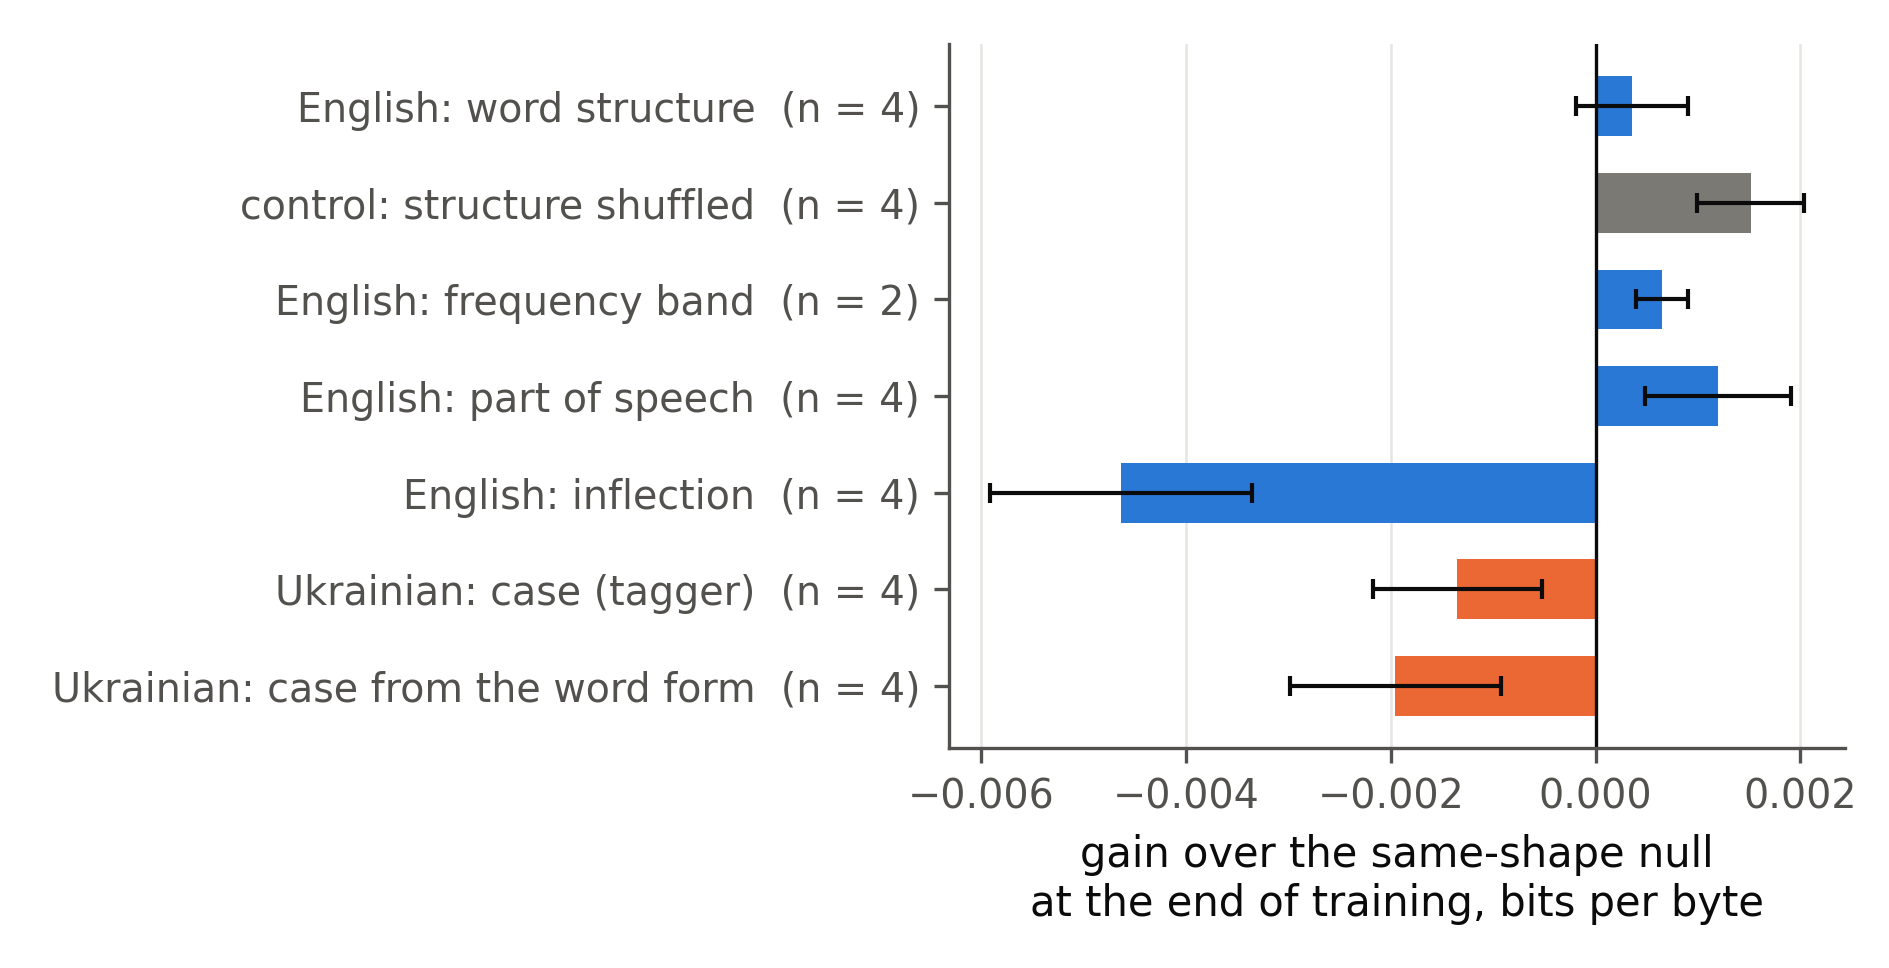
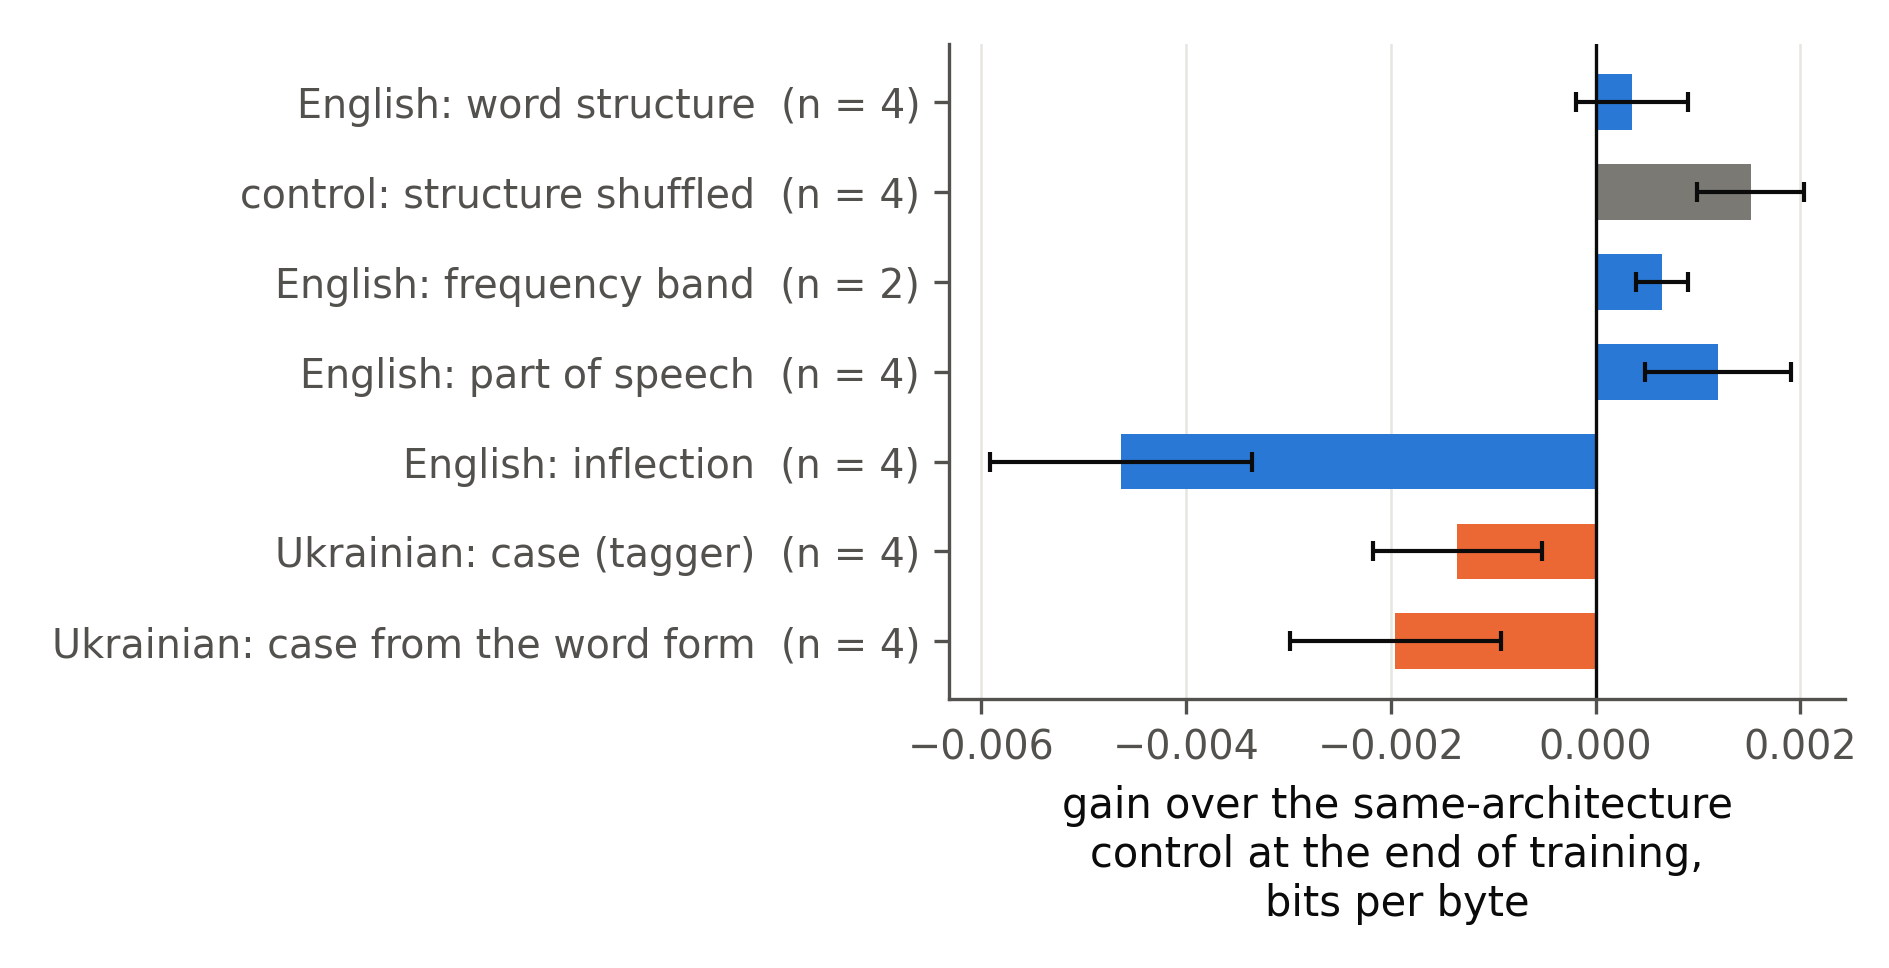
The English figures say "control"; the small model's cost is scoped to endings apart
What changed for the thesis:
- scripts/analysis/thesis_figures.py, the English labels follow the thesis's term: "gain over the
  control", "gain over the same-architecture control at the end of training", "the control's
  validation BPB", "BPE 17k control's validation BPB" (exports/figures/en/, all five figures). The
  English law figure's tokenizer name now breaks over two lines, as the Ukrainian one does, so its
  legend no longer runs off the figure's edge. The Ukrainian figures are unchanged.
- FINDINGS, the same-shape null is not neutral: "the cost belongs to the small model, not to a stage
  of learning" is now said of endings apart, since at 85M parameters the slot costs under BPE 17k
  from the middle of training (§33.139).
- Records: paired_cells_20261025T064838, item 1's nulls at width 1024 on 151M tokens at 20k, paired
  once all eight were in; written up with item 1.

diff --git a/scripts/analysis/thesis_figures.py b/scripts/analysis/thesis_figures.py
@@ -131,11 +131,11 @@ TXT = {
         'unigram': 'Unigram 17k',
     },
     'en': {
-        'gain': 'gain over the null,\nbits per byte',
-        'gain_end': 'gain over the same-shape null\nat the end of training, bits per byte',
+        'gain': 'gain over the control,\nbits per byte',
+        'gain_end': 'gain over the same-architecture\ncontrol at the end of training,\nbits per byte',
         'step': 'training step, thousands',
-        'null_bpb': "the null's validation BPB\n(→ more learned)",
-        'ref_bpb': "BPE 17k null's validation BPB\n(→ more learned)",
+        'null_bpb': "the control's validation BPB\n(→ more learned)",
+        'ref_bpb': "BPE 17k control's validation BPB\n(→ more learned)",
         'lead': 'lead over BPE 17k,\nbits per byte',
         'tok_title': 'BPE 17k with endings apart, n = 4:',
         'letters': 'abcd',
@@ -169,7 +169,7 @@ _EN_LAW_NAMES = [['151M tokens, 50k steps', '38M tokens, 10k steps'],
                  ['50k steps', '20k steps', '10k steps', '5k steps'],
                  ['width 128, 50k steps', 'width 128, 10k steps', 'width 256, 10k steps', 'width 256, 20k steps',
                   'width 64, 10k steps'],
-                 ['BPE 4k', 'BPE 8k', 'BPE 17k', 'BPE 32k', 'Unigram 17k', 'BPE 17k, endings apart']]
+                 ['BPE 4k', 'BPE 8k', 'BPE 17k', 'BPE 32k', 'Unigram 17k', 'BPE 17k with\nendings apart']]
 TXT['en']['law'] = [(ref, [(nm, n, f) for nm, (_, n, f) in zip(names, conds)])
                     for names, (ref, conds) in zip(_EN_LAW_NAMES, TXT['uk']['law'])]
 

diff --git a/exports/audits.md b/exports/audits.md
@@ -257,6 +257,7 @@
 | `paired_cells` | 2026-10-22T13:58:26+00:00 | pair=[['w1024 wu1000', 'bpe_mconst-LEARN-CAUSAL_bpe_uk_17k_ukwiki0.05_wu1000_st10k_w1024', 'bpe_mconst-LEARN-CAUSAL_bpeend_uk_17k_ukwiki0.05_wu1000_st10k_w1024'], ['w512 wu1000', 'bpe_mconst-LEARN-CAUSAL_bpe_uk_17k_ukwiki0.05_wu1000_st10k_w512', 'bpe_mconst-LEARN-CAUSAL_bpeend_uk_17k_ukwiki0.05_wu1000_st10k_w512'], ['w1024 wu100', 'bpe_mconst-LEARN-CAUSAL_bpe_uk_17k_ukwiki0.05_st10k_w1024', 'bpe_mconst-LEARN-CAUSAL_bpeend_uk_17k_ukwiki0.05_st10k_w1024'], ['w512 wu100', 'bpe_mconst-LEARN-CAUSAL_bpe_uk_17k_ukwiki0.05_st10k_w512', 'bpe_mconst-LEARN-CAUSAL_bpeend_uk_17k_ukwiki0.05_st10k_w512'], ['w1024 BPE17k null: wu1000 vs wu100', 'bpe_mconst-LEARN-CAUSAL_bpe_uk_17k_ukwiki0.05_st10k_w1024', 'bpe_mconst-LEARN-CAUSAL_bpe_uk_17k_ukwiki0.05_wu1000_st10k_w1024'], ['w1024 endings null: wu1000 vs wu100', 'bpe_mconst-LEARN-CAUSAL_bpeend_uk_17k_ukwiki0.05_st10k_w1024', 'bpe_mconst-LEARN-CAUSAL_bpeend_uk_17k_ukwiki0.05_wu1000_st10k_w1024'], ['w512 BPE17k null: wu1000 vs wu100', 'bpe_mconst-LEARN-CAUSAL_bpe_uk_17k_ukwiki0.05_st10k_w512', 'bpe_mconst-LEARN-CAUSAL_bpe_uk_17k_ukwiki0.05_wu1000_st10k_w512'], ['w512 endings null: wu1000 vs wu100', 'bpe_mconst-LEARN-CAUSAL_bpeend_uk_17k_ukwiki0.05_st10k_w512', 'bpe_mconst-LEARN-CAUSAL_bpeend_uk_17k_ukwiki0.05_wu1000_st10k_w512']] machine=second results=['/home/neko/PycharmProjects/Morph/results'] | pairs |
 | `paired_cells` | 2026-10-23T00:45:25+00:00 | pair=[['ugender:lead', 'bpe_ugenderlex-LEARN-CAUSAL_bpeend_uk_17k_ukwiki0.2', 'bpe_ugender-LEARN-CAUSAL_bpeend_uk_17k_ukwiki0.2'], ['ugender:leak', 'bpe_ugendercausal-LEARN-CAUSAL_bpeend_uk_17k_ukwiki0.2', 'bpe_ugender-LEARN-CAUSAL_bpeend_uk_17k_ukwiki0.2'], ['ugender:rest', 'bpe_ugenderlex-LEARN-CAUSAL_bpeend_uk_17k_ukwiki0.2', 'bpe_ugendercausal-LEARN-CAUSAL_bpeend_uk_17k_ukwiki0.2'], ['ugender:context-over-null', 'bpe_mconst-LEARN-CAUSAL_bpeend_uk_17k_ukwiki0.2', 'bpe_ugender-LEARN-CAUSAL_bpeend_uk_17k_ukwiki0.2'], ['ugender:form-over-null', 'bpe_mconst-LEARN-CAUSAL_bpeend_uk_17k_ukwiki0.2', 'bpe_ugenderlex-LEARN-CAUSAL_bpeend_uk_17k_ukwiki0.2'], ['ugender:causal-over-null', 'bpe_mconst-LEARN-CAUSAL_bpeend_uk_17k_ukwiki0.2', 'bpe_ugendercausal-LEARN-CAUSAL_bpeend_uk_17k_ukwiki0.2'], ['unumber:lead', 'bpe_unumberlex-LEARN-CAUSAL_bpeend_uk_17k_ukwiki0.2', 'bpe_unumber-LEARN-CAUSAL_bpeend_uk_17k_ukwiki0.2'], ['unumber:leak', 'bpe_unumbercausal-LEARN-CAUSAL_bpeend_uk_17k_ukwiki0.2', 'bpe_unumber-LEARN-CAUSAL_bpeend_uk_17k_ukwiki0.2'], ['unumber:rest', 'bpe_unumberlex-LEARN-CAUSAL_bpeend_uk_17k_ukwiki0.2', 'bpe_unumbercausal-LEARN-CAUSAL_bpeend_uk_17k_ukwiki0.2'], ['unumber:context-over-null', 'bpe_mconst-LEARN-CAUSAL_bpeend_uk_17k_ukwiki0.2', 'bpe_unumber-LEARN-CAUSAL_bpeend_uk_17k_ukwiki0.2'], ['unumber:form-over-null', 'bpe_mconst-LEARN-CAUSAL_bpeend_uk_17k_ukwiki0.2', 'bpe_unumberlex-LEARN-CAUSAL_bpeend_uk_17k_ukwiki0.2'], ['unumber:causal-over-null', 'bpe_mconst-LEARN-CAUSAL_bpeend_uk_17k_ukwiki0.2', 'bpe_unumbercausal-LEARN-CAUSAL_bpeend_uk_17k_ukwiki0.2']] machine=second results=['/home/neko/PycharmProjects/Morph/results'] | pairs |
 | `paired_cells` | 2026-10-25T06:15:43+00:00 | pair=[['w1024 wu1000, the empty slots', 'bpe_mconst-LEARN-CAUSAL-OFF0_bpe_uk_17k_ukwiki0.05_wu1000_st10k_w1024', 'bpe_mconst-LEARN-CAUSAL-OFF0_bpeend_uk_17k_ukwiki0.05_wu1000_st10k_w1024'], ['w1024 wu1000, the nulls', 'bpe_mconst-LEARN-CAUSAL_bpe_uk_17k_ukwiki0.05_wu1000_st10k_w1024', 'bpe_mconst-LEARN-CAUSAL_bpeend_uk_17k_ukwiki0.05_wu1000_st10k_w1024'], ['w1024 wu1000, BPE 17k: the empty slot over the null', 'bpe_mconst-LEARN-CAUSAL_bpe_uk_17k_ukwiki0.05_wu1000_st10k_w1024', 'bpe_mconst-LEARN-CAUSAL-OFF0_bpe_uk_17k_ukwiki0.05_wu1000_st10k_w1024'], ['w1024 wu1000, endings apart: the empty slot over the null', 'bpe_mconst-LEARN-CAUSAL_bpeend_uk_17k_ukwiki0.05_wu1000_st10k_w1024', 'bpe_mconst-LEARN-CAUSAL-OFF0_bpeend_uk_17k_ukwiki0.05_wu1000_st10k_w1024']] machine=second results=['/home/neko/PycharmProjects/Morph/results'] | pairs |
+| `paired_cells` | 2026-10-25T06:48:38+00:00 | pair=[['w1024 wu1000 20k, 151M tokens, the nulls', 'bpe_mconst-LEARN-CAUSAL_bpe_uk_17k_ukwiki0.2_wu1000_st20k_w1024', 'bpe_mconst-LEARN-CAUSAL_bpeend_uk_17k_ukwiki0.2_wu1000_st20k_w1024']] machine=second results=['/home/neko/PycharmProjects/Morph/results'] | pairs |
 | `preflight_rebuild` | 2026-09-26T11:59:34+00:00 | bpe_path=data/bpe_17k.json lines=300 cache_dir=data/cache | failures, magr, mfeat, minfl |
 | `preflight_rebuild` | 2026-09-26T12:04:00+00:00 | bpe_path=data/bpe_17k.json lines=300 cache_dir=data/cache | failures, magr, mfeat, minfl |
 | `?` | ? | - | - |
@@ -510,6 +511,7 @@
 - **lookahead_check**: Continuation targets are intrinsically easier, so a moderate imbalance is not proof of leakage. The definitive test is a causal feature carrying only information available at generation time.
 - **lookahead_check**: Continuation targets are intrinsically easier, so a moderate imbalance is not proof of leakage. The definitive test is a causal feature carrying only information available at generation time.
 - **lookahead_check**: Continuation targets are intrinsically easier, so a moderate imbalance is not proof of leakage. The definitive test is a causal feature carrying only information available at generation time.
+- **paired_cells**: effect = B minus A in bits per byte at each seed (positive: A better); pairs on one machine only
 - **paired_cells**: effect = B minus A in bits per byte at each seed (positive: A better); pairs on one machine only
 - **paired_cells**: effect = B minus A in bits per byte at each seed (positive: A better); pairs on one machine only
 - **paired_cells**: effect = B minus A in bits per byte at each seed (positive: A better); pairs on one machine only

diff --git a/docs/FINDINGS.md b/docs/FINDINGS.md
@@ -297,7 +297,7 @@ Net, case beats the empty slot by half its gain over the null at 10k (+0.0022 ag
 **In a model of 30M parameters the null costs nothing.**
 At width 512 and 10k the empty slot ends level with it under both tokenizers: −0.0002 ± 0.0001 under endings apart (1/4), −0.0002 ± 0.0005 under BPE 17k.
 Along training the slot helps there, as early in the 5M model, and the help fades: where the 5M model's slot costs under endings apart (+0.0017 at null BPB 1.15, +0.0021 at 1.10), the 30M model's still helps (−0.0015, −0.0012; 0/4 each).
-The cost belongs to the small model, not to a stage of learning.
+Under endings apart the cost belongs to the small model, not to a stage of learning.
 
 **In a model of 85M parameters it is not neutral again, and its sign turns with the tokenizer.**
 At width 1024 and 10k, with the 1,000-step warm-up, the empty slot ends better than the null under BPE 17k, **+0.0017 ± 0.0011** (3/4), and worse under endings apart, **−0.0015 ± 0.0006** (0/4).
